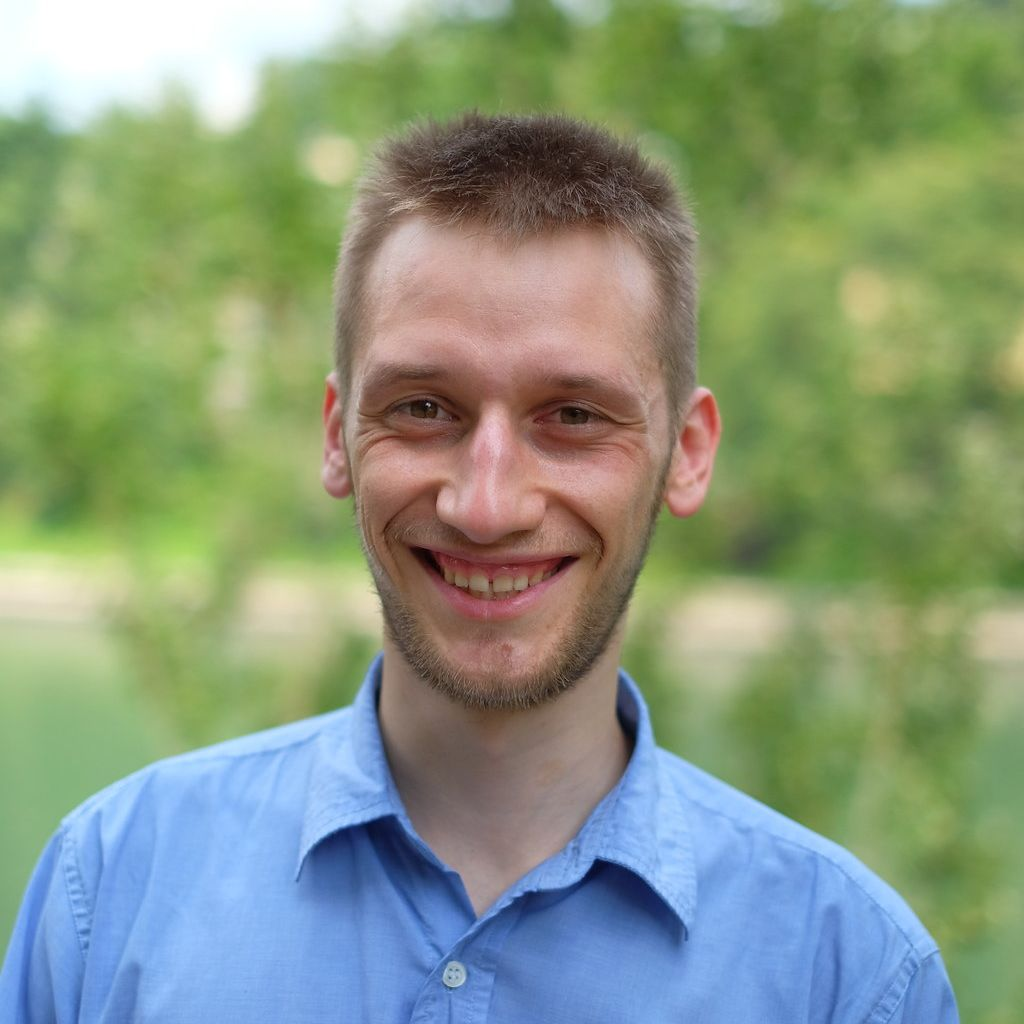
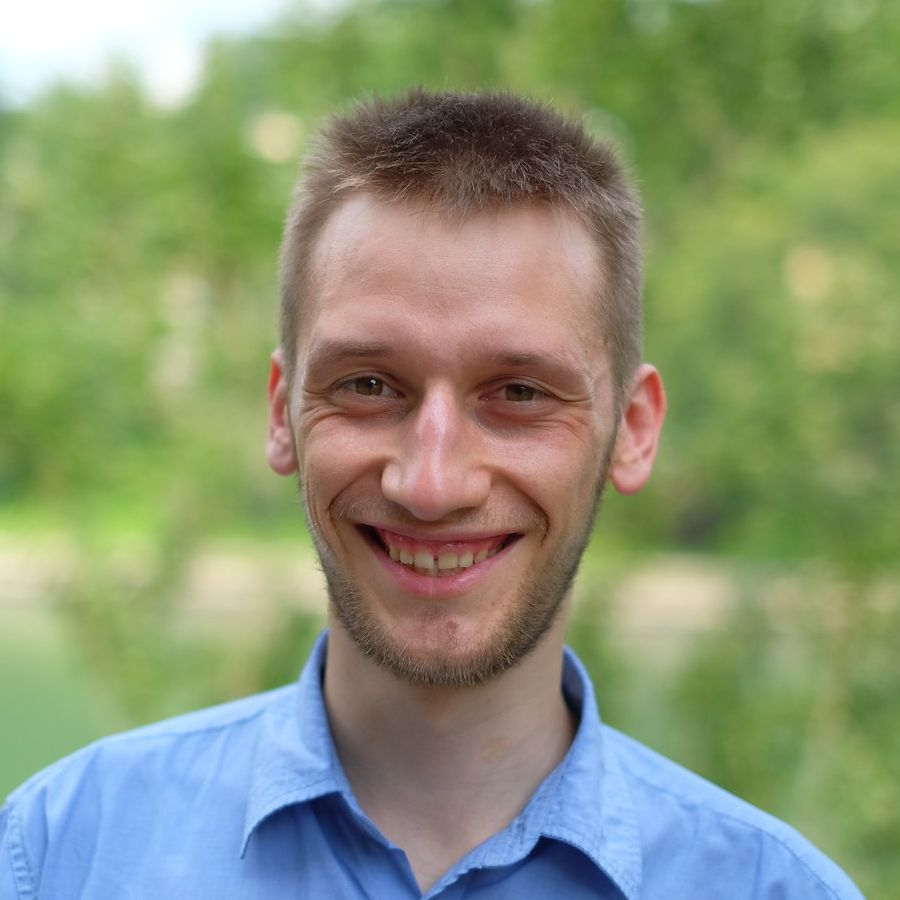
Update Saulius's image again

diff --git a/content/team/staff.md b/content/team/staff.md
@@ -59,7 +59,7 @@ title = "Our Team"
   <br>
 
 <p align="center">
-  <img src="/img/saulius.jpg" alt="Saulius Šimčikas" style="width:250px"><br>
+  <img src="/img/saulius.jpeg" alt="Saulius Šimčikas" style="width:250px"><br>
   <b>Saulius Šimčikas</b><br>
   <b>Research Analyst</b><br>
 </p>
